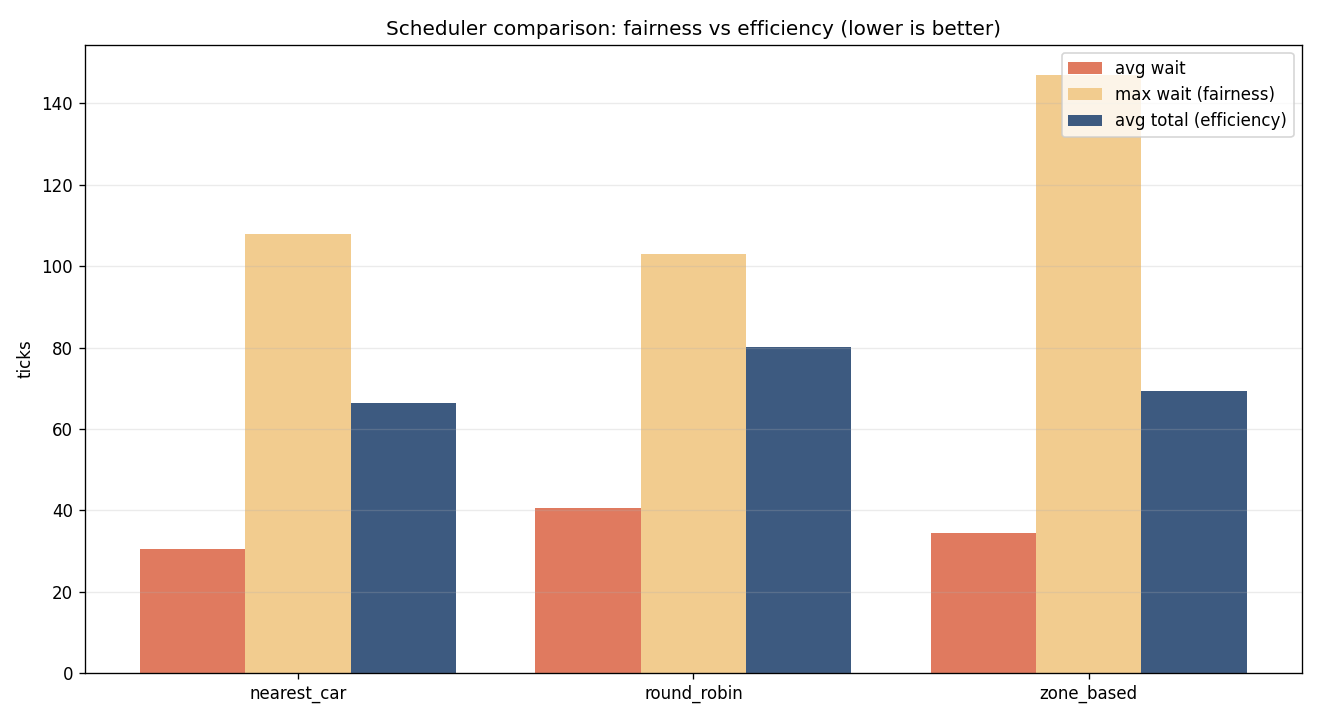
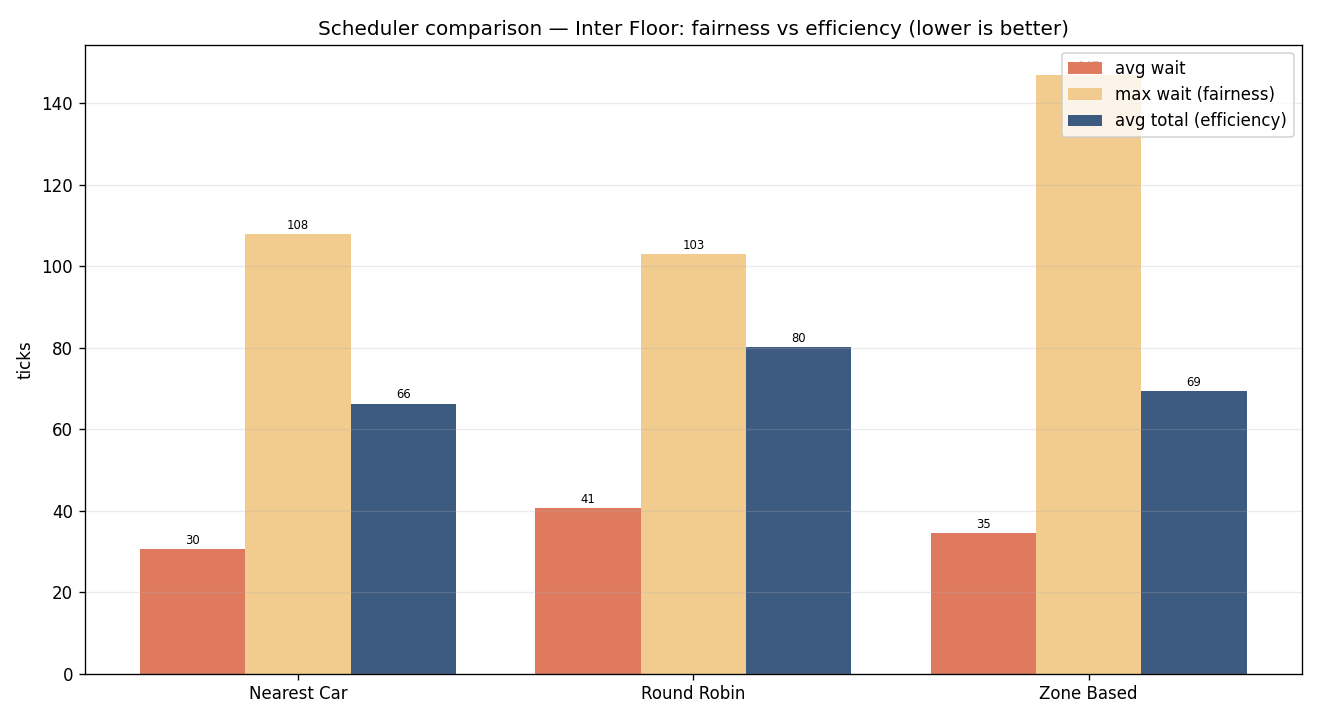
Improve chart readability and add per-scenario comparison charts
- Strategy comparison: value labels on bars, pretty-printed strategy
  names (title case), scenario name in chart title and filename
- Histograms: add mean lines to wait and total distributions
- Generate comparison charts for rush_hour, inter_floor, and requests
  scenarios; update docs/ and README references

diff --git a/src/elevator_sim/viz.py b/src/elevator_sim/viz.py
@@ -100,12 +100,28 @@ def plot_wait_distribution(result: SimulationResult, path: str) -> str:
 
     fig, (ax1, ax2) = plt.subplots(1, 2, figsize=(12, 5))
     ax1.hist(waits, bins="auto", color="#e07a5f", edgecolor="white")
+    if waits:
+        mean_wait = sum(waits) / len(waits)
+        ax1.axvline(
+            mean_wait, color="#333", linestyle="--", linewidth=1.2, label=f"mean = {mean_wait:.0f}"
+        )
+        ax1.legend(fontsize=8)
     ax1.set_title("Wait time distribution")
     ax1.set_xlabel("wait (ticks)")
     ax1.set_ylabel("passengers")
     ax1.grid(True, axis="y", alpha=0.25)
 
     ax2.hist(totals, bins="auto", color="#3d5a80", edgecolor="white")
+    if totals:
+        mean_total = sum(totals) / len(totals)
+        ax2.axvline(
+            mean_total,
+            color="#333",
+            linestyle="--",
+            linewidth=1.2,
+            label=f"mean = {mean_total:.0f}",
+        )
+        ax2.legend(fontsize=8)
     ax2.set_title("Total time distribution")
     ax2.set_xlabel("total (ticks)")
     ax2.grid(True, axis="y", alpha=0.25)
@@ -116,10 +132,11 @@ def plot_wait_distribution(result: SimulationResult, path: str) -> str:
     return path
 
 
-def plot_strategy_comparison(rows: list, path: str) -> str:
+def plot_strategy_comparison(rows: list, path: str, scenario: str = "") -> str:
     """Grouped bars comparing strategies on fairness vs efficiency metrics.
 
     ``rows`` is a list of :class:`elevator_sim.compare.StrategyMetrics`.
+    ``scenario`` is an optional human-readable label included in the chart title.
     """
     import matplotlib
 
@@ -127,25 +144,39 @@ def plot_strategy_comparison(rows: list, path: str) -> str:
     import matplotlib.pyplot as plt
 
     _ensure_dir(path)
-    names = [r.strategy for r in rows]
+    pretty_names = [r.strategy.replace("_", " ").title() for r in rows]
     series = [
         ("avg wait", [r.avg_wait for r in rows], "#e07a5f"),
         ("max wait (fairness)", [r.max_wait for r in rows], "#f2cc8f"),
         ("avg total (efficiency)", [r.avg_total for r in rows], "#3d5a80"),
     ]
-    n = len(names)
+    n = len(pretty_names)
     group_width = 0.8
     bar_width = group_width / len(series)
 
     fig, ax = plt.subplots(figsize=(11, 6))
     for idx, (label, values, color) in enumerate(series):
         offsets = [i - group_width / 2 + bar_width * (idx + 0.5) for i in range(n)]
-        ax.bar(offsets, values, width=bar_width, label=label, color=color)
+        bars = ax.bar(offsets, values, width=bar_width, label=label, color=color)
+        for bar in bars:
+            ax.text(
+                bar.get_x() + bar.get_width() / 2,
+                bar.get_height() + 0.5,
+                f"{bar.get_height():.0f}",
+                ha="center",
+                va="bottom",
+                fontsize=7,
+            )
 
-    ax.set_title("Scheduler comparison: fairness vs efficiency (lower is better)")
+    title = (
+        f"Scheduler comparison — {scenario}: fairness vs efficiency (lower is better)"
+        if scenario
+        else "Scheduler comparison: fairness vs efficiency (lower is better)"
+    )
+    ax.set_title(title)
     ax.set_ylabel("ticks")
     ax.set_xticks(range(n))
-    ax.set_xticklabels(names)
+    ax.set_xticklabels(pretty_names)
     ax.grid(True, axis="y", alpha=0.25)
     ax.legend(loc="upper right")
     fig.tight_layout()

diff --git a/src/elevator_sim/cli.py b/src/elevator_sim/cli.py
@@ -94,8 +94,13 @@ def _run_comparison(requests: list[Request], args: argparse.Namespace, common: d
         except ImportError:
             print("\nmatplotlib not available; install with: uv sync --extra viz", file=sys.stderr)
             return 1
+        scenario_slug = os.path.splitext(os.path.basename(args.requests))[0]
+        scenario_label = scenario_slug.replace("_", " ").title()
+        chart_name = f"strategy_comparison_{scenario_slug}.png"
         chart = plot_strategy_comparison(
-            rows, os.path.join(args.output_dir, "strategy_comparison.png")
+            rows,
+            os.path.join(args.output_dir, chart_name),
+            scenario=scenario_label,
         )
         print(f"Wrote {chart}")
     return 0

diff --git a/README.md b/README.md
@@ -182,11 +182,15 @@ locality finally helps. No strategy wins everywhere — full analysis in
 
 Lobby rush:
 
-![Strategy comparison — lobby rush](docs/strategy_comparison.png)
+![Strategy comparison — lobby rush](docs/strategy_comparison_rush_hour.png)
 
 Spread inter-floor traffic:
 
 ![Strategy comparison — inter-floor](docs/strategy_comparison_inter_floor.png)
+
+Sample requests:
+
+![Strategy comparison — sample requests](docs/strategy_comparison_requests.png)
 
 ## Design Overview
 
